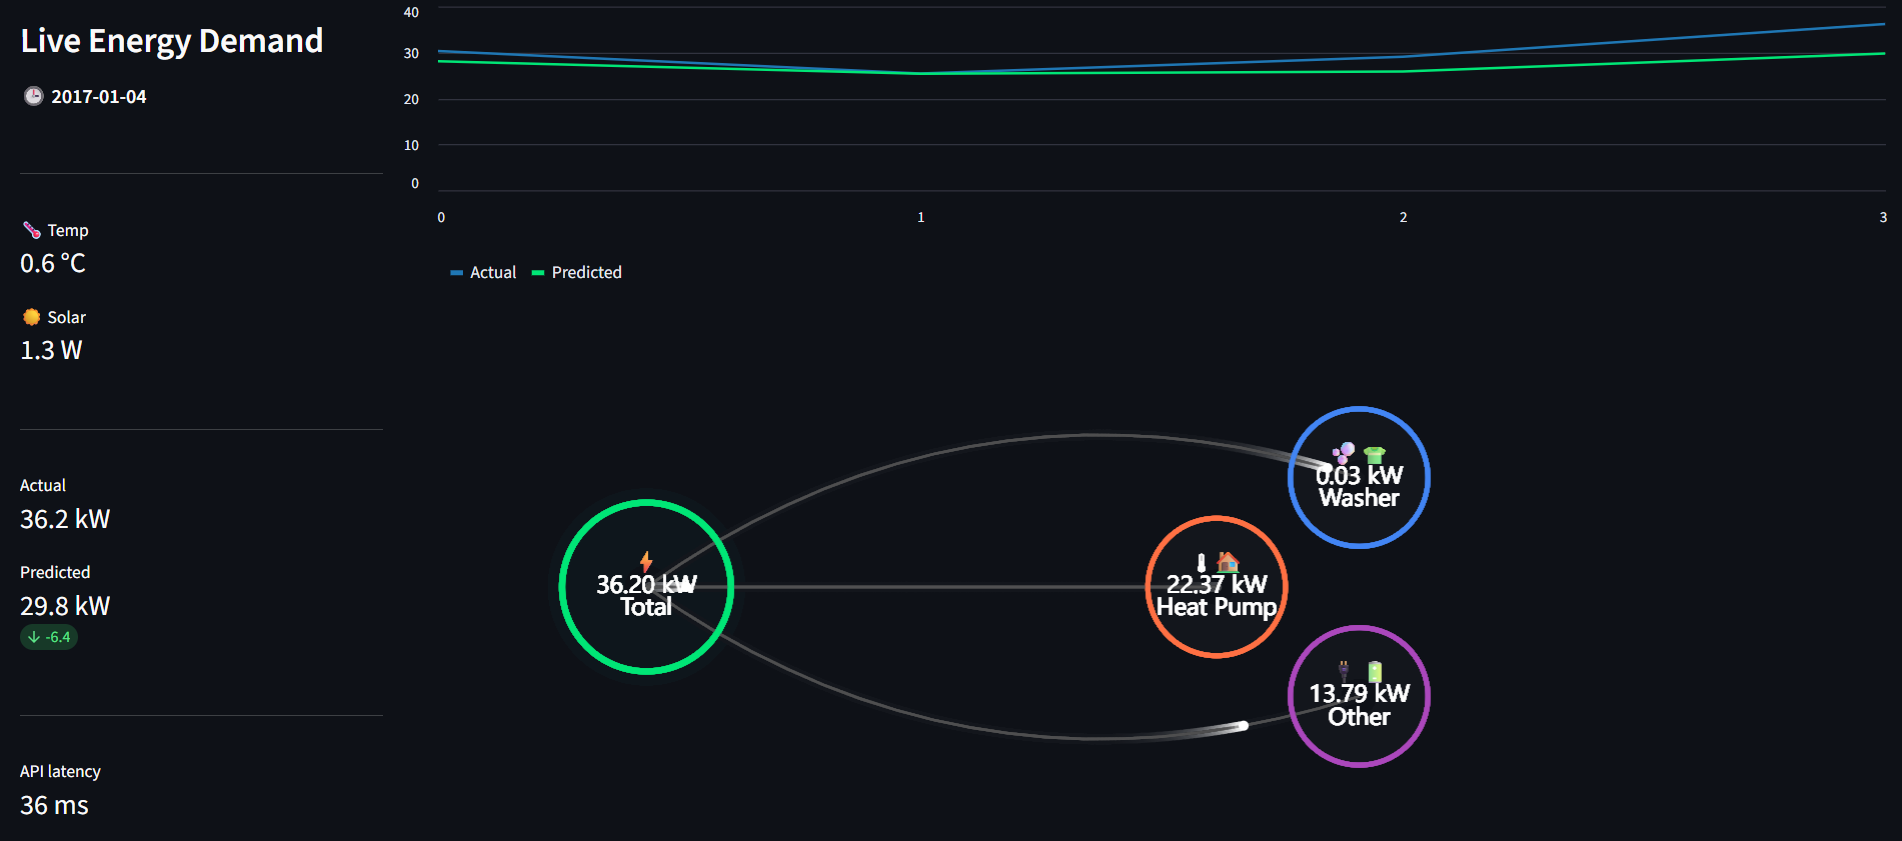
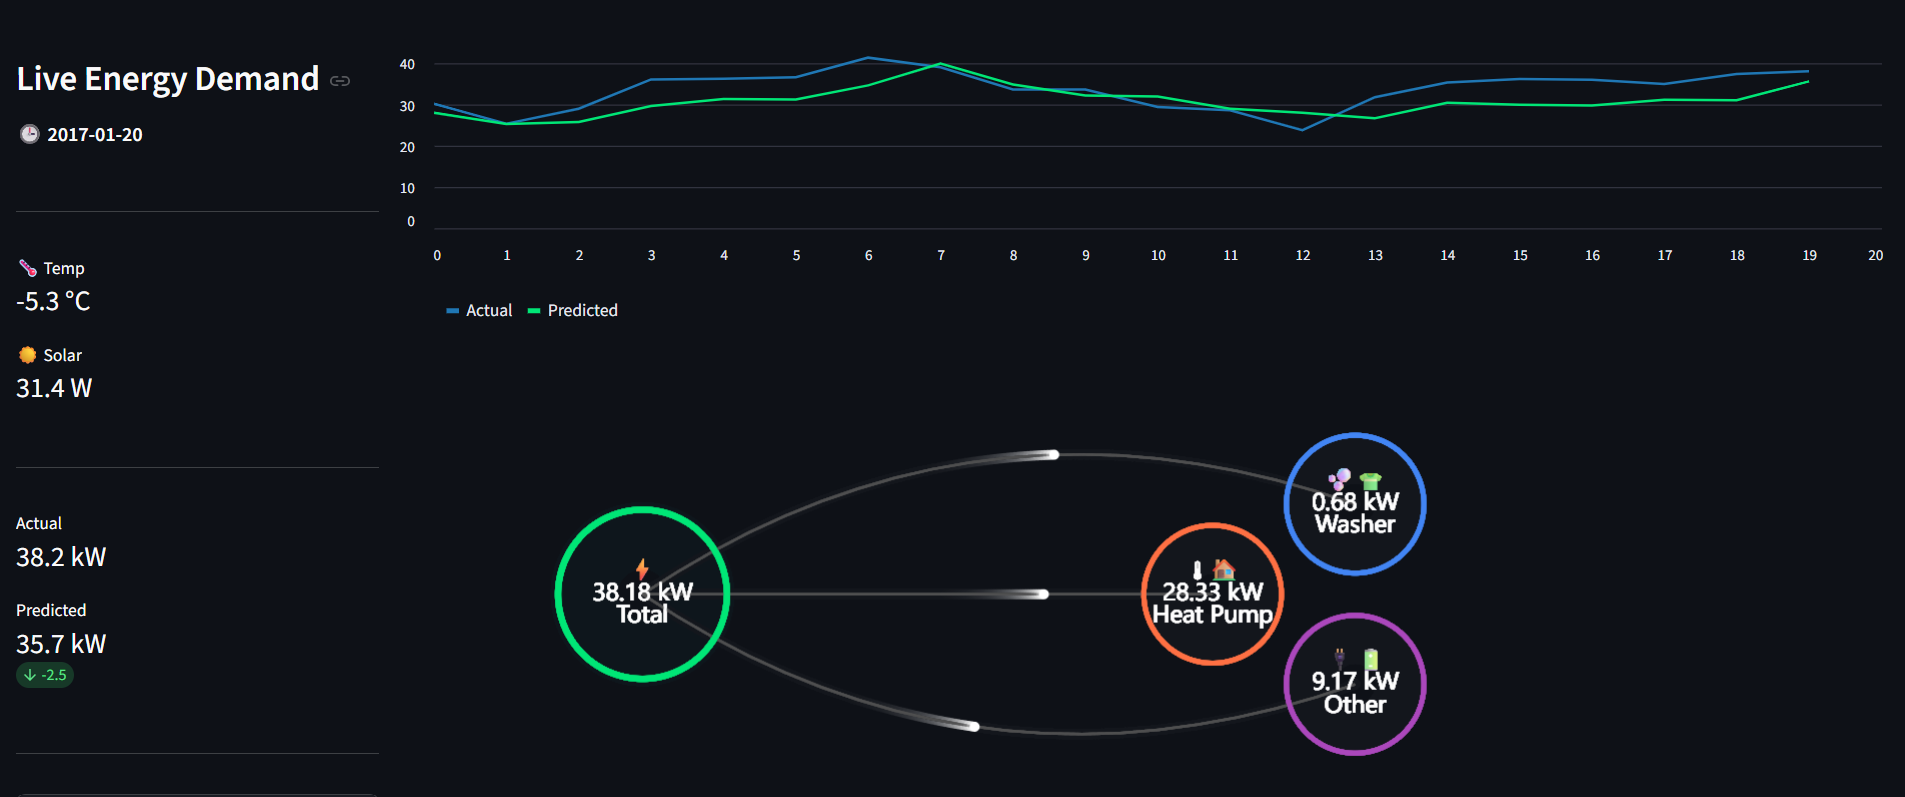
add basic monitoring

diff --git a/api_dashboard/dashboard.py b/api_dashboard/dashboard.py
@@ -44,9 +44,8 @@ st.markdown(
 
 # --- UI PLACEHOLDERS & LAYOUT ---
 left_col, right_col = st.columns([1, 4])
-
 with left_col:
-    st.markdown("### Live Energy Demand ")
+    st.markdown("### Live Energy Demand")
     time_placeholder = st.empty()
     st.markdown("---")
     
@@ -58,11 +57,13 @@ with left_col:
     pred_metric = st.empty()
     st.markdown("---")
     
-    latency_metric = st.empty()
+    # NEW: Monitoring Section
+    with st.expander("Model Monitoring", expanded=True):
+        mae_metric = st.empty()
+        status_metric = st.empty()
     
     st.markdown("<br>", unsafe_allow_html=True)
     start_stream = st.button("▶ Start Stream", type="primary", use_container_width=True)
-
 with right_col:
     line_chart_placeholder = st.empty()
     flow_placeholder = st.empty()
@@ -204,7 +205,18 @@ if start_stream:
 
         actual_metric.metric("Actual", f"{actual_total:.1f} kW")
         pred_metric.metric("Predicted", f"{prediction:.1f} kW", delta=f"{prediction - actual_total:.1f}", delta_color="inverse")
-        latency_metric.metric("API latency", f"{latency} ms")
+        
+        # NEW: Calculate Rolling MAE for basic Monitoring
+        import numpy as np
+        if len(history_actual) > 0:
+            rolling_mae = np.mean(np.abs(np.array(history_actual) - np.array(history_pred)))
+            mae_metric.metric("Rolling Error (MAE)", f"{rolling_mae:.2f} kW")
+            
+            # Simple Drift Alert Threshold
+            if rolling_mae > 15.0: # Adjust this threshold based on your normal error
+                status_metric.error("HIGH ERROR: Possible Data Drift!")
+            else:
+                status_metric.success("Model Health: Stable")
         
         df_chart = pd.DataFrame({"Actual": history_actual, "Predicted": history_pred})
         
@@ -213,7 +225,7 @@ if start_stream:
         with flow_placeholder:
             st_echarts(
                 options=render_echarts_flow(actual_total, heat_pump, wash, other), 
-                height="400px", key=f"flow_{index}" 
+                height="350px", key=f"flow_{index}" 
             )
         
-        time.sleep(10)
+        time.sleep(4)

diff --git a/api_dashboard/howtouse.md b/api_dashboard/howtouse.md
@@ -12,6 +12,10 @@ We use the trained model logged into W&B Artifacts:
 * During training, the exact `MinMaxScaler` object and PyTorch weights (`model.pth`) are versioned and logged to W&B.
 * In production, the backend and frontend download and initialize these exact artifacts. This ensures that the incoming production data is scaled using the exact  parameters the model learned during training.
 
+### Basic Monitoring Strategy
+To ensure the model does not silently degrade in production, the Streamlit dashboard includes a **Model Monitoring**. 
+* The UI calculates the **Mean Absolute Error (MAE)** over a sliding 20-step window.
+* If the MAE crosses a predefined threshold, it triggers a visual **Data Drift Warning**, alerting the user that the incoming data distribution may have shifted away from the training data.
 ---
 
 ## Execution Instructions
@@ -55,4 +59,12 @@ Click the "Start Stream" button on the left sidebar.
 Observe the terminal running FastAPI to see the live HTTP POST 200 requests being processed in real-time as the dashboard animations update.
 The dashboard updates every 10s for the next day of data.
 Dashboard should look like this:
-![alt text](image.png)
+![](image.png)
+![alt text](image-2.png)
+
+And your terminals like this
+- Terminal 1
+![alt text](image-4.png)
+
+- Terminal 2
+![alt text](image-3.png)
